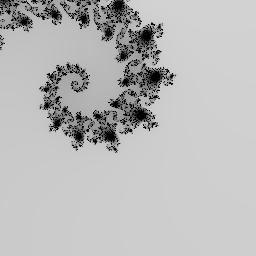
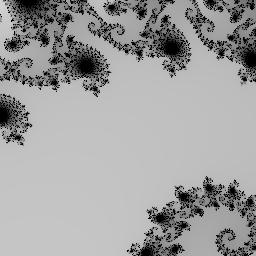
old_new

diff --git a/pages/page.py b/pages/page.py
@@ -60,8 +60,10 @@ def display_image(relay, data):
             print("stored: ", stored)
             proxyImage = Image.new(mode="L", size=(stored['image_width'], stored['image_height']))
             oldViewport = Viewport(proxyImage, center = complex(stored['center_re'], stored['center_im']), width = stored['width'])
+            newWidth = ((xMax - xMin) / (proxyImage.width)) * oldViewport.width
+            print("newWidth: ", newWidth)
             pixel = Pixel(viewport=oldViewport, x=xCenter, y=yCenter)
-            viewport = generate_image(center=complex(pixel))
+            viewport = generate_image(center=complex(pixel), width=newWidth)
     img = np.array(Image.open(image_path))
     fig = px.imshow(img, color_continuous_scale='gray')
     fig.update_layout(coloraxis_showscale=False)
